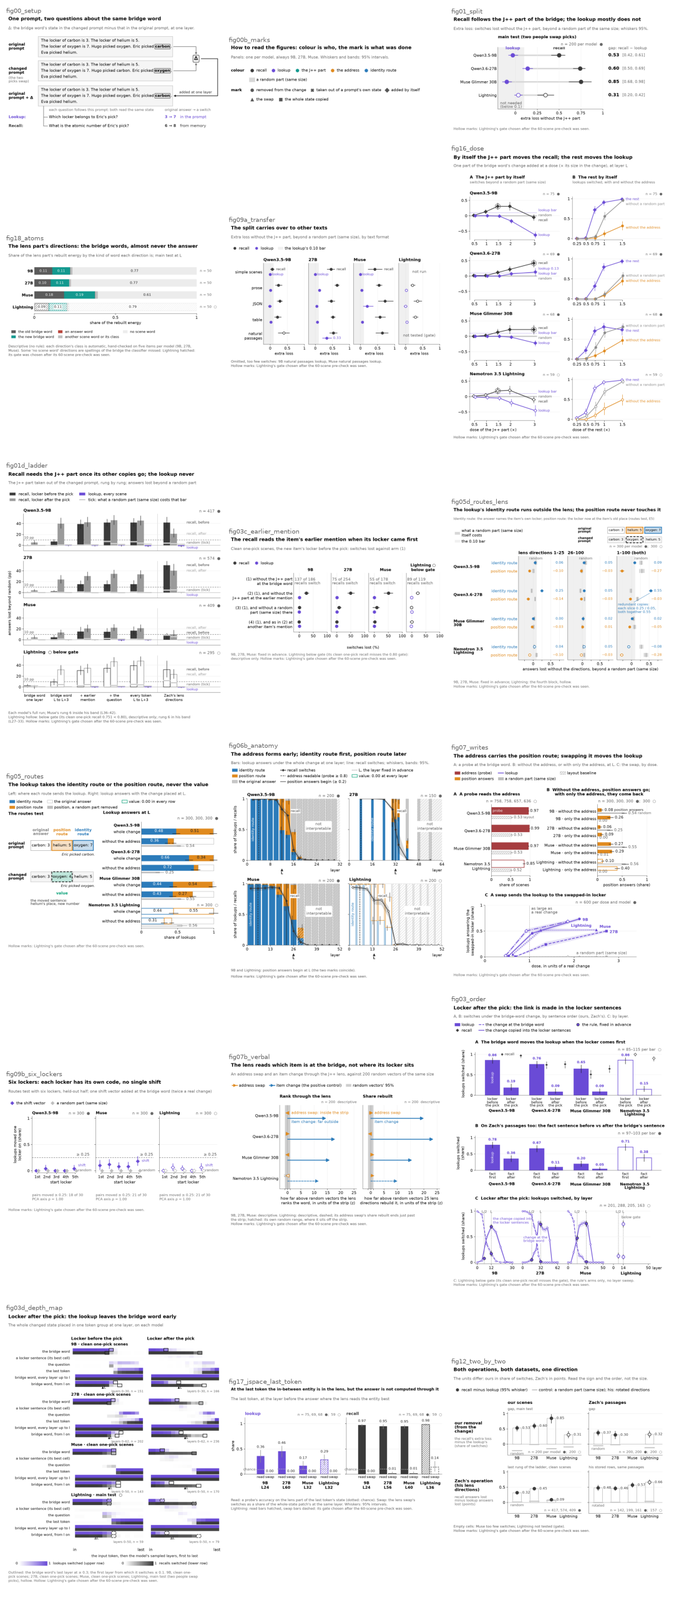
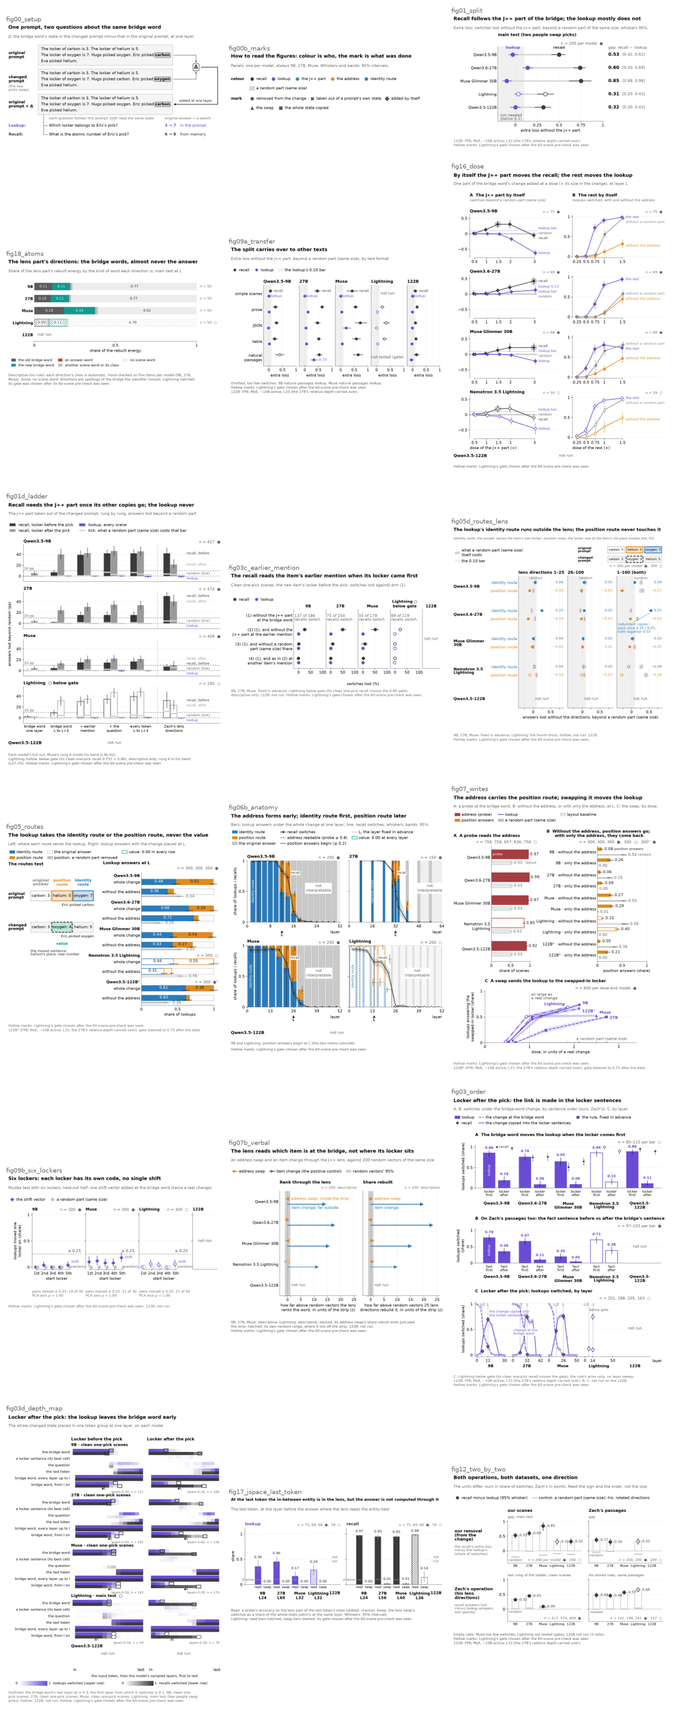
README figures: the 122B as the fifth slot (Dan 11:30, "grey slots elsewhere"; coordinator 12:15), and its answer control
The figure code came from four forks, merged before this commit:
- D1 a457a680: fig01, fig03, fig03c, fig06b.
- D2 22a2c13c: fig05, fig07.
- E 0c71f17f: fig09a, fig16, fig17, fig18, fig12, fig01d.
- F 85bd8833: fig05d, fig09b_six_lockers, fig07b, fig03d, fig01c, fig07c, fig09d.
The check_figure_terms V6_PANELS merge conflict was resolved to one line holding every fork's limit.

- 122B with data:
  - fig01_split (0.32 / 0.00);
  - fig03_order panel A (0.89 / 0.11; B and C "not run");
  - fig05_routes° (0.61 / 0.38; without the address 0.05 vs 0.36);
  - fig07_writes (probe 0.92; B° 0.05 / 0.21; C° swap by dose, s = 2: 0.50);
  - fig09a_transfer (per format and natural fact-first, the same path as the other models);
  - fig12 cell (0, 0) (gap 0.32).
- 122B grey "not run": fig03c, fig06b, fig16, fig17, fig18, fig01d, fig05d, fig09b_six_lockers, fig07b, fig03d, fig01c,
  fig07c, fig09d.
- Captions on the figures and in the README: the 122B's status. Its first mention with data says "FP8; MoE, ~10B
  active; L33 (the 27B's relative depth carried over)"; ° marks gate 0.75 after the data.
- The 122B's 51.12 E1 (results/x51_answer/x52_answer-20261029T112359Z, coverage run, read for the 122B only) fills the
  conflict card's four answer-control cells. It is "the answer word is not read", as on Muse and Lightning, and the
  caveat says so. The 122B was already in claim 1 (the claim the answer control backs).
[…]

diff --git a/scripts/readme_story_figures.py b/scripts/readme_story_figures.py
@@ -3877,9 +3877,12 @@ def card_numbers() -> None:
              if c["layer"] == LT_L and c["reader"] == "PM"), source=rel(v))  # fmt: skip
     # the answer control: 51.12's opened verdict (9B / 27B / Muse) and Lightning's coverage run (x52_answer, set e1)
     lt_answer = pins.RESULTS_DIR / "x51_answer" / "x52_answer-20261029T002056Z" / "verdict.json"
-    for v in (latest_verdict("x51_answer/x51_12-*") / "verdict.json", lt_answer):
+    # the 122B's coverage run (Dan 11:30, item 3), read for the 122B only (the same folder repeats Lightning's e1)
+    q122_answer = pins.RESULTS_DIR / "x51_answer" / "x52_answer-20261029T112359Z" / "verdict.json"
+    for v, only in ((latest_verdict("x51_answer/x51_12-*") / "verdict.json", None), (lt_answer, None),
+                    (q122_answer, "qwen3.5-122b-a10b")):  # fmt: skip
         for m in json.loads(v.read_text())["models"]:
-            if m["set"] != "e1":
+            if m["set"] != "e1" or (only and m["target"] != only):
                 continue
             rc = m["readers"]["recall"]
             S.record("conflict_answer", m["target"], "main test, recall: share of its loss kept when the lens part keeps "

diff --git a/docs/depth/README.md b/docs/depth/README.md
@@ -12,7 +12,7 @@
 - **Weaker on the 27B:** its lookup follows the lens part in part; adding the address alone brings no position answers back; swaps between given lockers miss on most pairs; on its full layer grid the lookup still needs the lens part after it takes up the address.
 - **Limits, withdrawn, failed:** on Zach's true-fact passages, and when every token before L changes, the lookup follows the lens part too; with made-up facts the split returns on the 9B. Withdrawn: the described bridge on Zach's passages; "one code per locker" is now "swaps between given lockers work; the code's size is open". Did not hold: four mechanism tests, a person mark at the locker sentence, blocking the pick sentence, on every model that ran them [✗].
 
-**Status.** Five models: Qwen3.5-9B, Qwen3.6-27B, Muse Glimmer 30B (another family), Nemotron 3.5 Lightning 30B-A3B (a third family, a Mamba-attention hybrid), and Qwen3.5-122B-A10B (FP8; MoE, ~10B active) as the fifth where it ran (the first tests only; grey "not run" elsewhere); 29 Oct 2026. Unverified until hand-checked. Built at 1398b98e from the run files. Lightning ran on the rules already fixed for the other models, with no prediction of its own; its numbers are marked ○ (hollow) everywhere: its gate was chosen after the 60-scene pre-check was seen. Nemotron 3.5 Bolt is out of scope: no J++ lens exists for it. The largest model's lookup loses nothing beyond random (0.00<!-- src: docs/x0_numbers.json | lk_excess_k25_122b --> with 25 lens directions; −0.12<!-- src: docs/x0_numbers.json | lk_excess_k100_122b --> with 100, where the 27B loses 0.60<!-- src: docs/x0_numbers.json | lk_excess_k100_27b -->), so the 27B's weakness is not a total-size trend; active parameters are not separated; its recall effect is the smallest of the five (0.32<!-- src: docs/x0_numbers.json | rc_excess_122b -->) and mixed on varied scenes (0.15<!-- src: docs/x0_numbers.json | x0b_c_122b -->); we cannot separate that from its later layer (L33<!-- src: docs/x0_numbers.json | layer_122b -->, relative depth 0.69<!-- src: figures/story/data.csv | L as a relative depth (L / the number of layers) -->) or FP8. Restructure in progress (Dan, 28 Oct 22:20): Parts II-VI keep their previous format until they move to the card template.
+**Status.** Five models: Qwen3.5-9B, Qwen3.6-27B, Muse Glimmer 30B (another family), Nemotron 3.5 Lightning 30B-A3B (a third family, a Mamba-attention hybrid), and Qwen3.5-122B-A10B (FP8; MoE, ~10B active) as the fifth where it ran (the first tests only; grey "not run" elsewhere); 29 Oct 2026. Unverified until hand-checked. Built at 32c467c7 from the run files. Lightning ran on the rules already fixed for the other models, with no prediction of its own; its numbers are marked ○ (hollow) everywhere: its gate was chosen after the 60-scene pre-check was seen. Nemotron 3.5 Bolt is out of scope: no J++ lens exists for it. The largest model's lookup loses nothing beyond random (0.00<!-- src: docs/x0_numbers.json | lk_excess_k25_122b --> with 25 lens directions; −0.12<!-- src: docs/x0_numbers.json | lk_excess_k100_122b --> with 100, where the 27B loses 0.60<!-- src: docs/x0_numbers.json | lk_excess_k100_27b -->), so the 27B's weakness is not a total-size trend; active parameters are not separated; its recall effect is the smallest of the five (0.32<!-- src: docs/x0_numbers.json | rc_excess_122b -->) and mixed on varied scenes (0.15<!-- src: docs/x0_numbers.json | x0b_c_122b -->); we cannot separate that from its later layer (L33<!-- src: docs/x0_numbers.json | layer_122b -->, relative depth 0.69<!-- src: figures/story/data.csv | L as a relative depth (L / the number of layers) -->) or FP8. Restructure in progress (Dan, 28 Oct 22:20): Parts II-VI keep their previous format until they move to the card template.
 
 ## The question and the setup
 
@@ -186,10 +186,10 @@ Both readers: The country of Eli Thornton's childhood is on which continent?   E
   | recall: switches lost, not net of random | 0.53<!-- src: docs/x0_numbers.json \| rc_jdep_9b --> | 0.77<!-- src: docs/x0_numbers.json \| rc_jdep_27b --> | 0.72<!-- src: docs/x0_numbers.json \| rc_jdep_muse --> | 0.41<!-- src: figures/story/data.csv \| conflict: recall, switches lost, not net of random --> | 0.40<!-- src: docs/x0_numbers.json \| rc_jdep_122b --> |
   | lookup: switches lost beyond a random part | −0.03 [−0.08, 0.03]<!-- src: docs/x0_numbers.json \| lk_excess_9b --> | 0.14 [0.08, 0.20]<!-- src: docs/x0_numbers.json \| lk_excess_27b --> | −0.10 [−0.15, −0.04]<!-- src: docs/x0_numbers.json \| lk_excess_muse --> | 0.03 [-0.01, 0.08]<!-- src: figures/story/data.csv \| conflict: lookup, switches lost beyond a random part --> | 0.00 [−0.06, 0.06]<!-- src: docs/x0_numbers.json \| lk_excess_122b --> |
   | the rule | confirmed<!-- src: docs/x0_numbers.json \| verdict_9b --> | not confirmed<!-- src: docs/x0_numbers.json \| verdict_27b --> | confirmed<!-- src: docs/x0_numbers.json \| verdict_muse --> | confirmed<!-- src: figures/story/data.csv \| conflict: the rule --> | confirmed<!-- src: docs/x0_numbers.json \| verdict_122b --> |
-  | recall: share of its loss kept with the answer directions kept | 0.95 [0.90, 0.99]<!-- src: figures/story/data.csv \| main test, recall: share of its loss kept when the lens part keeps the answer words' directions --> | 0.93 [0.85, 0.99]<!-- src: figures/story/data.csv \| main test, recall: share of its loss kept when the lens part keeps the answer words' directions --> | 0.93 [0.85, 1.00]<!-- src: figures/story/data.csv \| main test, recall: share of its loss kept when the lens part keeps the answer words' directions --> | 0.92 [0.83, 1.03]<!-- src: figures/story/data.csv \| main test, recall: share of its loss kept when the lens part keeps the answer words' directions --> | not run |
-  | recall: switches lost beyond random without the answer directions only | 0.00 [0.00, 0.00]<!-- src: figures/story/data.csv \| main test, recall: switches lost beyond random without the answer words' directions only --> | 0.03 [0.01, 0.05]<!-- src: figures/story/data.csv \| main test, recall: switches lost beyond random without the answer words' directions only --> | -0.01 [-0.05, 0.03]<!-- src: figures/story/data.csv \| main test, recall: switches lost beyond random without the answer words' directions only --> | 0.00 [-0.02, 0.01]<!-- src: figures/story/data.csv \| main test, recall: switches lost beyond random without the answer words' directions only --> | not run |
-  | recall: answer word outside the lens's top 50 at the bridge word | 0.56 [0.47, 0.66]<!-- src: figures/story/data.csv \| main test, recall: items whose answer word ranks below the lens's top 50 at the bridge word --> | 0.79 [0.72, 0.86]<!-- src: figures/story/data.csv \| main test, recall: items whose answer word ranks below the lens's top 50 at the bridge word --> | 0.99 [0.98, 1.00]<!-- src: figures/story/data.csv \| main test, recall: items whose answer word ranks below the lens's top 50 at the bridge word --> | 0.95 [0.90, 0.99]<!-- src: figures/story/data.csv \| main test, recall: items whose answer word ranks below the lens's top 50 at the bridge word --> | not run |
-  | the specificity rule | the item<!-- src: figures/story/data.csv \| main test, recall: the rule's label (page words) --> | the item<!-- src: figures/story/data.csv \| main test, recall: the rule's label (page words) --> | the answer word is not read<!-- src: figures/story/data.csv \| main test, recall: the rule's label (page words) --> | the answer word is not read<!-- src: figures/story/data.csv \| main test, recall: the rule's label (page words) --> | not run |
+  | recall: share of its loss kept with the answer directions kept | 0.95 [0.90, 0.99]<!-- src: figures/story/data.csv \| main test, recall: share of its loss kept when the lens part keeps the answer words' directions --> | 0.93 [0.85, 0.99]<!-- src: figures/story/data.csv \| main test, recall: share of its loss kept when the lens part keeps the answer words' directions --> | 0.93 [0.85, 1.00]<!-- src: figures/story/data.csv \| main test, recall: share of its loss kept when the lens part keeps the answer words' directions --> | 0.92 [0.83, 1.03]<!-- src: figures/story/data.csv \| main test, recall: share of its loss kept when the lens part keeps the answer words' directions --> | 0.98 [0.86, 1.18]<!-- src: figures/story/data.csv \| main test, recall: share of its loss kept when the lens part keeps the answer words' directions --> |
+  | recall: switches lost beyond random without the answer directions only | 0.00 [0.00, 0.00]<!-- src: figures/story/data.csv \| main test, recall: switches lost beyond random without the answer words' directions only --> | 0.03 [0.01, 0.05]<!-- src: figures/story/data.csv \| main test, recall: switches lost beyond random without the answer words' directions only --> | -0.01 [-0.05, 0.03]<!-- src: figures/story/data.csv \| main test, recall: switches lost beyond random without the answer words' directions only --> | 0.00 [-0.02, 0.01]<!-- src: figures/story/data.csv \| main test, recall: switches lost beyond random without the answer words' directions only --> | 0.01 [-0.01, 0.04]<!-- src: figures/story/data.csv \| main test, recall: switches lost beyond random without the answer words' directions only --> |
+  | recall: answer word outside the lens's top 50 at the bridge word | 0.56 [0.47, 0.66]<!-- src: figures/story/data.csv \| main test, recall: items whose answer word ranks below the lens's top 50 at the bridge word --> | 0.79 [0.72, 0.86]<!-- src: figures/story/data.csv \| main test, recall: items whose answer word ranks below the lens's top 50 at the bridge word --> | 0.99 [0.98, 1.00]<!-- src: figures/story/data.csv \| main test, recall: items whose answer word ranks below the lens's top 50 at the bridge word --> | 0.95 [0.90, 0.99]<!-- src: figures/story/data.csv \| main test, recall: items whose answer word ranks below the lens's top 50 at the bridge word --> | 1.00 [1.00, 1.00]<!-- src: figures/story/data.csv \| main test, recall: items whose answer word ranks below the lens's top 50 at the bridge word --> |
+  | the specificity rule | the item<!-- src: figures/story/data.csv \| main test, recall: the rule's label (page words) --> | the item<!-- src: figures/story/data.csv \| main test, recall: the rule's label (page words) --> | the answer word is not read<!-- src: figures/story/data.csv \| main test, recall: the rule's label (page words) --> | the answer word is not read<!-- src: figures/story/data.csv \| main test, recall: the rule's label (page words) --> | the answer word is not read<!-- src: figures/story/data.csv \| main test, recall: the rule's label (page words) --> |
 
 - **Read.**
   - The recall follows the part of the bridge word the lens reads; the lookup follows the rest, fully on the 9B, Muse, Lightning and the 122B, mostly on the 27B.
@@ -197,11 +197,11 @@ Both readers: The country of Eli Thornton's childhood is on which continent?   E
 - **Caveats.**
   - Following is not needing: a part is taken out of an added change at one layer (see "Does the recall need the lens part, or only follow it?").
   - The 27B's lookup misses its bar, and loses 0.60<!-- src: docs/x0_numbers.json | lk_excess_k100_27b --> beyond random when 100 lens directions go (an open question).
-  - On Muse and Lightning the answer word is almost never near the top of the lens readout, so the rule's first case decides there.
+  - On Muse, Lightning and the 122B the answer word is almost never near the top of the lens readout, so the rule's first case decides there.
   - Two limits, on Zach's passages (Part V): on the full carrier (every token before L), fact-after lookups follow the lens part (0.41<!-- src: figures/story/data.csv | 51.7: fact-after lookups, full carrier: switches lost beyond a random part --> ○ to 0.51<!-- src: figures/story/data.csv | 51.7: fact-after lookups, full carrier: switches lost beyond a random part --> lost beyond random); on his true-fact passages the 9B's and 27B's lookups follow it at L (0.26<!-- src: figures/story/data.csv | Z1: lookup, switches lost beyond a random part --> / 0.28<!-- src: figures/story/data.csv | Z1: lookup, switches lost beyond a random part -->). On his made-up-fact passages the split holds on the 9B and is in between on the 27B; Lightning is not tested there (gate).
 
 ![The recall follows the lens part of the bridge word; the lookup mostly does not](../../figures/story/fig01_split.png)
-*Switches lost without the lens part beyond a random part, per reader and model, main test at L; whiskers: 95% intervals; grey band: the lookup's 0.10 bar.*
+*Switches lost without the lens part beyond a random part, per reader and model, main test at L (the 122B's L33: the 27B's relative depth carried over); whiskers: 95% intervals; grey band: the lookup's 0.10 bar.*
 
 ### What do the lens part's 25 directions stand for?
 
@@ -229,7 +229,7 @@ Both readers: The country of Eli Thornton's childhood is on which continent?   E
   - Descriptive: no rule was fixed in advance; one set (the main test) per model.
 
 ![The lens part's directions: the bridge words, almost never the answer](../../figures/story/fig18_atoms.png)
-*The lens part's rebuilt energy at the bridge word, split by the kind of lens word each of its 25 directions is; main test at L; Lightning hatched (○).*
+*The lens part's rebuilt energy at the bridge word, split by the kind of lens word each of its 25 directions is; main test at L; Lightning hatched (○); 122B not run.*
 
 ### Does the split hold in other texts?
 
@@ -257,7 +257,7 @@ Both readers: The country of Eli Thornton's childhood is on which continent?   E
   - The 9B's natural run had its gate lowered after the data; Lightning's misses its gate, so its natural numbers are descriptive only.
 
 ![The split carries over to other texts](../../figures/story/fig09a_transfer.png)
-*Switches lost without the lens part beyond a random part, by text format, for the recall and the lookup; "simple scenes" are the scenes the address was fit on; natural passages with the fact first; hollow: the 9B's lowered gate; grey band: the lookup's 0.10 bar.*
+*Switches lost without the lens part beyond a random part, by text format, for the recall and the lookup; "simple scenes" are the scenes the address was fit on; natural passages with the fact first; the 122B fifth; hollow: the 9B's lowered gate; grey band: the lookup's 0.10 bar.*
 
 ### Does each part, added by itself, move its reader?
 
@@ -294,7 +294,7 @@ Both readers: The country of Eli Thornton's childhood is on which continent?   E
   - One layer, and only scenes whose lockers come first.
 
 ![By itself the lens part moves the recall; the rest moves the lookup](../../figures/story/fig16_dose.png)
-*Left: switches with the lens part alone minus a random part of the same size, by dose; rings mark the dose rule (ii) reads. Right: lookups switched by the rest alone, without the address, and without a random part. Rows: 9B, 27B, Muse, Lightning (hollow).*
+*Left: switches with the lens part alone minus a random part of the same size, by dose; rings mark the dose rule (ii) reads. Right: lookups switched by the rest alone, without the address, and without a random part. Rows: 9B, 27B, Muse, Lightning (hollow); 122B not run.*
 
 ### Does the recall need the lens part, or only follow it?
 
@@ -334,7 +334,7 @@ Both readers: The country of Eli Thornton's childhood is on which continent?   E
   - Lightning's ladder is below gate: its steps are shown, its rules are not tested.
 
 ![Recall needs the lens part once its other copies go; the lookup never](../../figures/story/fig01d_ladder.png)
-*Answers lost beyond a random part as the lens part's directions are taken out of the changed prompt, step by step; the recall split by sentence order, the lookup over every scene; ticks: what the random part itself costs; Lightning below gate, hollow.*
+*Answers lost beyond a random part as the lens part's directions are taken out of the changed prompt, step by step; the recall split by sentence order, the lookup over every scene; ticks: what the random part itself costs; Lightning below gate, hollow; 122B not run.*
 
 ### Does the recall also read the item's earlier mention?
 
@@ -367,7 +367,7 @@ Both readers: The country of Eli Thornton's childhood is on which continent?   E
   - Zeroing finds a weaker second copy on Muse (previous card): the two operations disagree in size there.
 
 ![The recall reads the item's earlier mention when its locker came first](../../figures/story/fig03c_earlier_mention.png)
-*Recall and lookup switches lost against arm (1), per arm; clean one-pick scenes with the locker first; whiskers: 95% intervals; 9B, 27B, Muse; Lightning below gate, hollow.*
+*Recall and lookup switches lost against arm (1), per arm; clean one-pick scenes with the locker first; whiskers: 95% intervals; 9B, 27B, Muse; Lightning below gate, hollow; 122B not run.*
 
 ## Part II. Identity: which item the lookup reads
 
@@ -394,7 +394,7 @@ Both readers: The country of Eli Thornton's childhood is on which continent?   E
 - **Figure.**
 
 ![The lookup takes the identity route or the position route, never the value](../../figures/story/fig05_routes.png)
-*The design is drawn on the setup figure's items; the routes test's own scenes are animals.*
+*The design is drawn on the setup figure's items; the routes test's own scenes are animals. The 122B° fifth: its gate lowered to 0.75 after the data.*
 
 The same routes by depth:
 
@@ -523,7 +523,7 @@ The same routes by depth:
   - The output classes are descriptive (CPU check of the stored runs).
 
 ![The recall's entity at the last token: readable through the lens, not used](../../figures/story/fig17_jspace_last_token.png)
-*At the last token, per reader and model: the probe's accuracy on the lens part of the state (read) and the lens swap's switches as a share of the whole-state patch's (swap), both at the layer where the read peaks; Lightning hollow.*
+*At the last token, per reader and model: the probe's accuracy on the lens part of the state (read) and the lens swap's switches as a share of the whole-state patch's (swap), both at the layer where the read peaks; Lightning hollow; 122B not run.*
 
 ## Part V. Other datasets and operations
 

diff --git a/docs/README.template.md b/docs/README.template.md
@@ -186,10 +186,10 @@ Both readers: The country of Eli Thornton's childhood is on which continent?   E
   | recall: switches lost, not net of random | {{num|rc_jdep_9b}} | {{num|rc_jdep_27b}} | {{num|rc_jdep_muse}} | {{dp|cards|nemotron-3.5-lightning|conflict: recall, switches lost, not net of random}} | {{num|rc_jdep_122b}} |
   | lookup: switches lost beyond a random part | {{num|lk_excess_9b}} | {{num|lk_excess_27b}} | {{num|lk_excess_muse}} | {{d|cards|nemotron-3.5-lightning|conflict: lookup, switches lost beyond a random part}} | {{num|lk_excess_122b}} |
   | the rule | {{num|verdict_9b}} | {{num|verdict_27b}} | {{num|verdict_muse}} | {{dp|cards|nemotron-3.5-lightning|conflict: the rule}} | {{num|verdict_122b}} |
-  | recall: share of its loss kept with the answer directions kept | {{d|conflict_answer|9b|main test, recall: share of its loss kept when the lens part keeps the answer words' directions}} | {{d|conflict_answer|27b|main test, recall: share of its loss kept when the lens part keeps the answer words' directions}} | {{d|conflict_answer|muse|main test, recall: share of its loss kept when the lens part keeps the answer words' directions}} | {{d|conflict_answer|nemotron-3.5-lightning|main test, recall: share of its loss kept when the lens part keeps the answer words' directions}} | not run |
-  | recall: switches lost beyond random without the answer directions only | {{d|conflict_answer|9b|main test, recall: switches lost beyond random without the answer words' directions only}} | {{d|conflict_answer|27b|main test, recall: switches lost beyond random without the answer words' directions only}} | {{d|conflict_answer|muse|main test, recall: switches lost beyond random without the answer words' directions only}} | {{d|conflict_answer|nemotron-3.5-lightning|main test, recall: switches lost beyond random without the answer words' directions only}} | not run |
-  | recall: answer word outside the lens's top 50 at the bridge word | {{d|conflict_answer|9b|main test, recall: items whose answer word ranks below the lens's top 50 at the bridge word}} | {{d|conflict_answer|27b|main test, recall: items whose answer word ranks below the lens's top 50 at the bridge word}} | {{d|conflict_answer|muse|main test, recall: items whose answer word ranks below the lens's top 50 at the bridge word}} | {{d|conflict_answer|nemotron-3.5-lightning|main test, recall: items whose answer word ranks below the lens's top 50 at the bridge word}} | not run |
-  | the specificity rule | {{dp|conflict_answer|9b|main test, recall: the rule's label (page words)}} | {{dp|conflict_answer|27b|main test, recall: the rule's label (page words)}} | {{dp|conflict_answer|muse|main test, recall: the rule's label (page words)}} | {{dp|conflict_answer|nemotron-3.5-lightning|main test, recall: the rule's label (page words)}} | not run |
+  | recall: share of its loss kept with the answer directions kept | {{d|conflict_answer|9b|main test, recall: share of its loss kept when the lens part keeps the answer words' directions}} | {{d|conflict_answer|27b|main test, recall: share of its loss kept when the lens part keeps the answer words' directions}} | {{d|conflict_answer|muse|main test, recall: share of its loss kept when the lens part keeps the answer words' directions}} | {{d|conflict_answer|nemotron-3.5-lightning|main test, recall: share of its loss kept when the lens part keeps the answer words' directions}} | {{d|conflict_answer|122b|main test, recall: share of its loss kept when the lens part keeps the answer words' directions}} |
+  | recall: switches lost beyond random without the answer directions only | {{d|conflict_answer|9b|main test, recall: switches lost beyond random without the answer words' directions only}} | {{d|conflict_answer|27b|main test, recall: switches lost beyond random without the answer words' directions only}} | {{d|conflict_answer|muse|main test, recall: switches lost beyond random without the answer words' directions only}} | {{d|conflict_answer|nemotron-3.5-lightning|main test, recall: switches lost beyond random without the answer words' directions only}} | {{d|conflict_answer|122b|main test, recall: switches lost beyond random without the answer words' directions only}} |
+  | recall: answer word outside the lens's top 50 at the bridge word | {{d|conflict_answer|9b|main test, recall: items whose answer word ranks below the lens's top 50 at the bridge word}} | {{d|conflict_answer|27b|main test, recall: items whose answer word ranks below the lens's top 50 at the bridge word}} | {{d|conflict_answer|muse|main test, recall: items whose answer word ranks below the lens's top 50 at the bridge word}} | {{d|conflict_answer|nemotron-3.5-lightning|main test, recall: items whose answer word ranks below the lens's top 50 at the bridge word}} | {{d|conflict_answer|122b|main test, recall: items whose answer word ranks below the lens's top 50 at the bridge word}} |
+  | the specificity rule | {{dp|conflict_answer|9b|main test, recall: the rule's label (page words)}} | {{dp|conflict_answer|27b|main test, recall: the rule's label (page words)}} | {{dp|conflict_answer|muse|main test, recall: the rule's label (page words)}} | {{dp|conflict_answer|nemotron-3.5-lightning|main test, recall: the rule's label (page words)}} | {{dp|conflict_answer|122b|main test, recall: the rule's label (page words)}} |
 
 - **Read.**
   - The recall follows the part of the bridge word the lens reads; the lookup follows the rest, fully on the 9B, Muse, Lightning and the 122B, mostly on the 27B.
@@ -197,11 +197,11 @@ Both readers: The country of Eli Thornton's childhood is on which continent?   E
 - **Caveats.**
   - Following is not needing: a part is taken out of an added change at one layer (see "Does the recall need the lens part, or only follow it?").
   - The 27B's lookup misses its bar, and loses {{pt|lk_excess_k100_27b}} beyond random when 100 lens directions go (an open question).
-  - On Muse and Lightning the answer word is almost never near the top of the lens readout, so the rule's first case decides there.
+  - On Muse, Lightning and the 122B the answer word is almost never near the top of the lens readout, so the rule's first case decides there.
   - Two limits, on Zach's passages (Part V): on the full carrier (every token before L), fact-after lookups follow the lens part ({{dp|cards|nemotron-3.5-lightning|51.7: fact-after lookups, full carrier: switches lost beyond a random part}} ○ to {{dp|cards|27b|51.7: fact-after lookups, full carrier: switches lost beyond a random part}} lost beyond random); on his true-fact passages the 9B's and 27B's lookups follow it at L ({{dp|cards|9b|Z1: lookup, switches lost beyond a random part}} / {{dp|cards|27b|Z1: lookup, switches lost beyond a random part}}). On his made-up-fact passages the split holds on the 9B and is in between on the 27B; Lightning is not tested there (gate).
 
 ![The recall follows the lens part of the bridge word; the lookup mostly does not](figures/story/fig01_split.png)
-*Switches lost without the lens part beyond a random part, per reader and model, main test at L; whiskers: {{q|95%}} intervals; grey band: the lookup's 0.10 bar.*
+*Switches lost without the lens part beyond a random part, per reader and model, main test at L (the 122B's L33: the 27B's relative depth carried over); whiskers: {{q|95%}} intervals; grey band: the lookup's 0.10 bar.*
 
 ### What do the lens part's 25 directions stand for?
 
@@ -229,7 +229,7 @@ Both readers: The country of Eli Thornton's childhood is on which continent?   E
   - Descriptive: no rule was fixed in advance; one set (the main test) per model.
 
 ![The lens part's directions: the bridge words, almost never the answer](figures/story/fig18_atoms.png)
-*The lens part's rebuilt energy at the bridge word, split by the kind of lens word each of its 25 directions is; main test at L; Lightning hatched (○).*
+*The lens part's rebuilt energy at the bridge word, split by the kind of lens word each of its 25 directions is; main test at L; Lightning hatched (○); 122B not run.*
 
 ### Does the split hold in other texts?
 
@@ -257,7 +257,7 @@ Both readers: The country of Eli Thornton's childhood is on which continent?   E
   - The 9B's natural run had its gate lowered after the data; Lightning's misses its gate, so its natural numbers are descriptive only.
 
 ![The split carries over to other texts](figures/story/fig09a_transfer.png)
-*Switches lost without the lens part beyond a random part, by text format, for the recall and the lookup; "simple scenes" are the scenes the address was fit on; natural passages with the fact first; hollow: the 9B's lowered gate; grey band: the lookup's 0.10 bar.*
+*Switches lost without the lens part beyond a random part, by text format, for the recall and the lookup; "simple scenes" are the scenes the address was fit on; natural passages with the fact first; the 122B fifth; hollow: the 9B's lowered gate; grey band: the lookup's 0.10 bar.*
 
 ### Does each part, added by itself, move its reader?
 
@@ -294,7 +294,7 @@ Both readers: The country of Eli Thornton's childhood is on which continent?   E
   - One layer, and only scenes whose lockers come first.
 
 ![By itself the lens part moves the recall; the rest moves the lookup](figures/story/fig16_dose.png)
-*Left: switches with the lens part alone minus a random part of the same size, by dose; rings mark the dose rule (ii) reads. Right: lookups switched by the rest alone, without the address, and without a random part. Rows: 9B, 27B, Muse, Lightning (hollow).*
+*Left: switches with the lens part alone minus a random part of the same size, by dose; rings mark the dose rule (ii) reads. Right: lookups switched by the rest alone, without the address, and without a random part. Rows: 9B, 27B, Muse, Lightning (hollow); 122B not run.*
 
 ### Does the recall need the lens part, or only follow it?
 
@@ -334,7 +334,7 @@ Both readers: The country of Eli Thornton's childhood is on which continent?   E
   - Lightning's ladder is below gate: its steps are shown, its rules are not tested.
 
 ![Recall needs the lens part once its other copies go; the lookup never](figures/story/fig01d_ladder.png)
-*Answers lost beyond a random part as the lens part's directions are taken out of the changed prompt, step by step; the recall split by sentence order, the lookup over every scene; ticks: what the random part itself costs; Lightning below gate, hollow.*
+*Answers lost beyond a random part as the lens part's directions are taken out of the changed prompt, step by step; the recall split by sentence order, the lookup over every scene; ticks: what the random part itself costs; Lightning below gate, hollow; 122B not run.*
 
 ### Does the recall also read the item's earlier mention?
 
@@ -367,7 +367,7 @@ Both readers: The country of Eli Thornton's childhood is on which continent?   E
   - Zeroing finds a weaker second copy on Muse (previous card): the two operations disagree in size there.
 
 ![The recall reads the item's earlier mention when its locker came first](figures/story/fig03c_earlier_mention.png)
-*Recall and lookup switches lost against arm (1), per arm; clean one-pick scenes with the locker first; whiskers: {{q|95%}} intervals; 9B, 27B, Muse; Lightning below gate, hollow.*
+*Recall and lookup switches lost against arm (1), per arm; clean one-pick scenes with the locker first; whiskers: {{q|95%}} intervals; 9B, 27B, Muse; Lightning below gate, hollow; 122B not run.*
 
 ## Part II. Identity: which item the lookup reads
 
@@ -394,7 +394,7 @@ Both readers: The country of Eli Thornton's childhood is on which continent?   E
 - **Figure.**
 
 ![The lookup takes the identity route or the position route, never the value](figures/story/fig05_routes.png)
-*The design is drawn on the setup figure's items; the routes test's own scenes are animals.*
+*The design is drawn on the setup figure's items; the routes test's own scenes are animals. The 122B° fifth: its gate lowered to 0.75 after the data.*
 
 The same routes by depth:
 
@@ -523,7 +523,7 @@ The same routes by depth:
   - The output classes are descriptive (CPU check of the stored runs).
 
 ![The recall's entity at the last token: readable through the lens, not used](figures/story/fig17_jspace_last_token.png)
-*At the last token, per reader and model: the probe's accuracy on the lens part of the state (read) and the lens swap's switches as a share of the whole-state patch's (swap), both at the layer where the read peaks; Lightning hollow.*
+*At the last token, per reader and model: the probe's accuracy on the lens part of the state (read) and the lens swap's switches as a share of the whole-state patch's (swap), both at the layer where the read peaks; Lightning hollow; 122B not run.*
 
 ## Part V. Other datasets and operations
 
